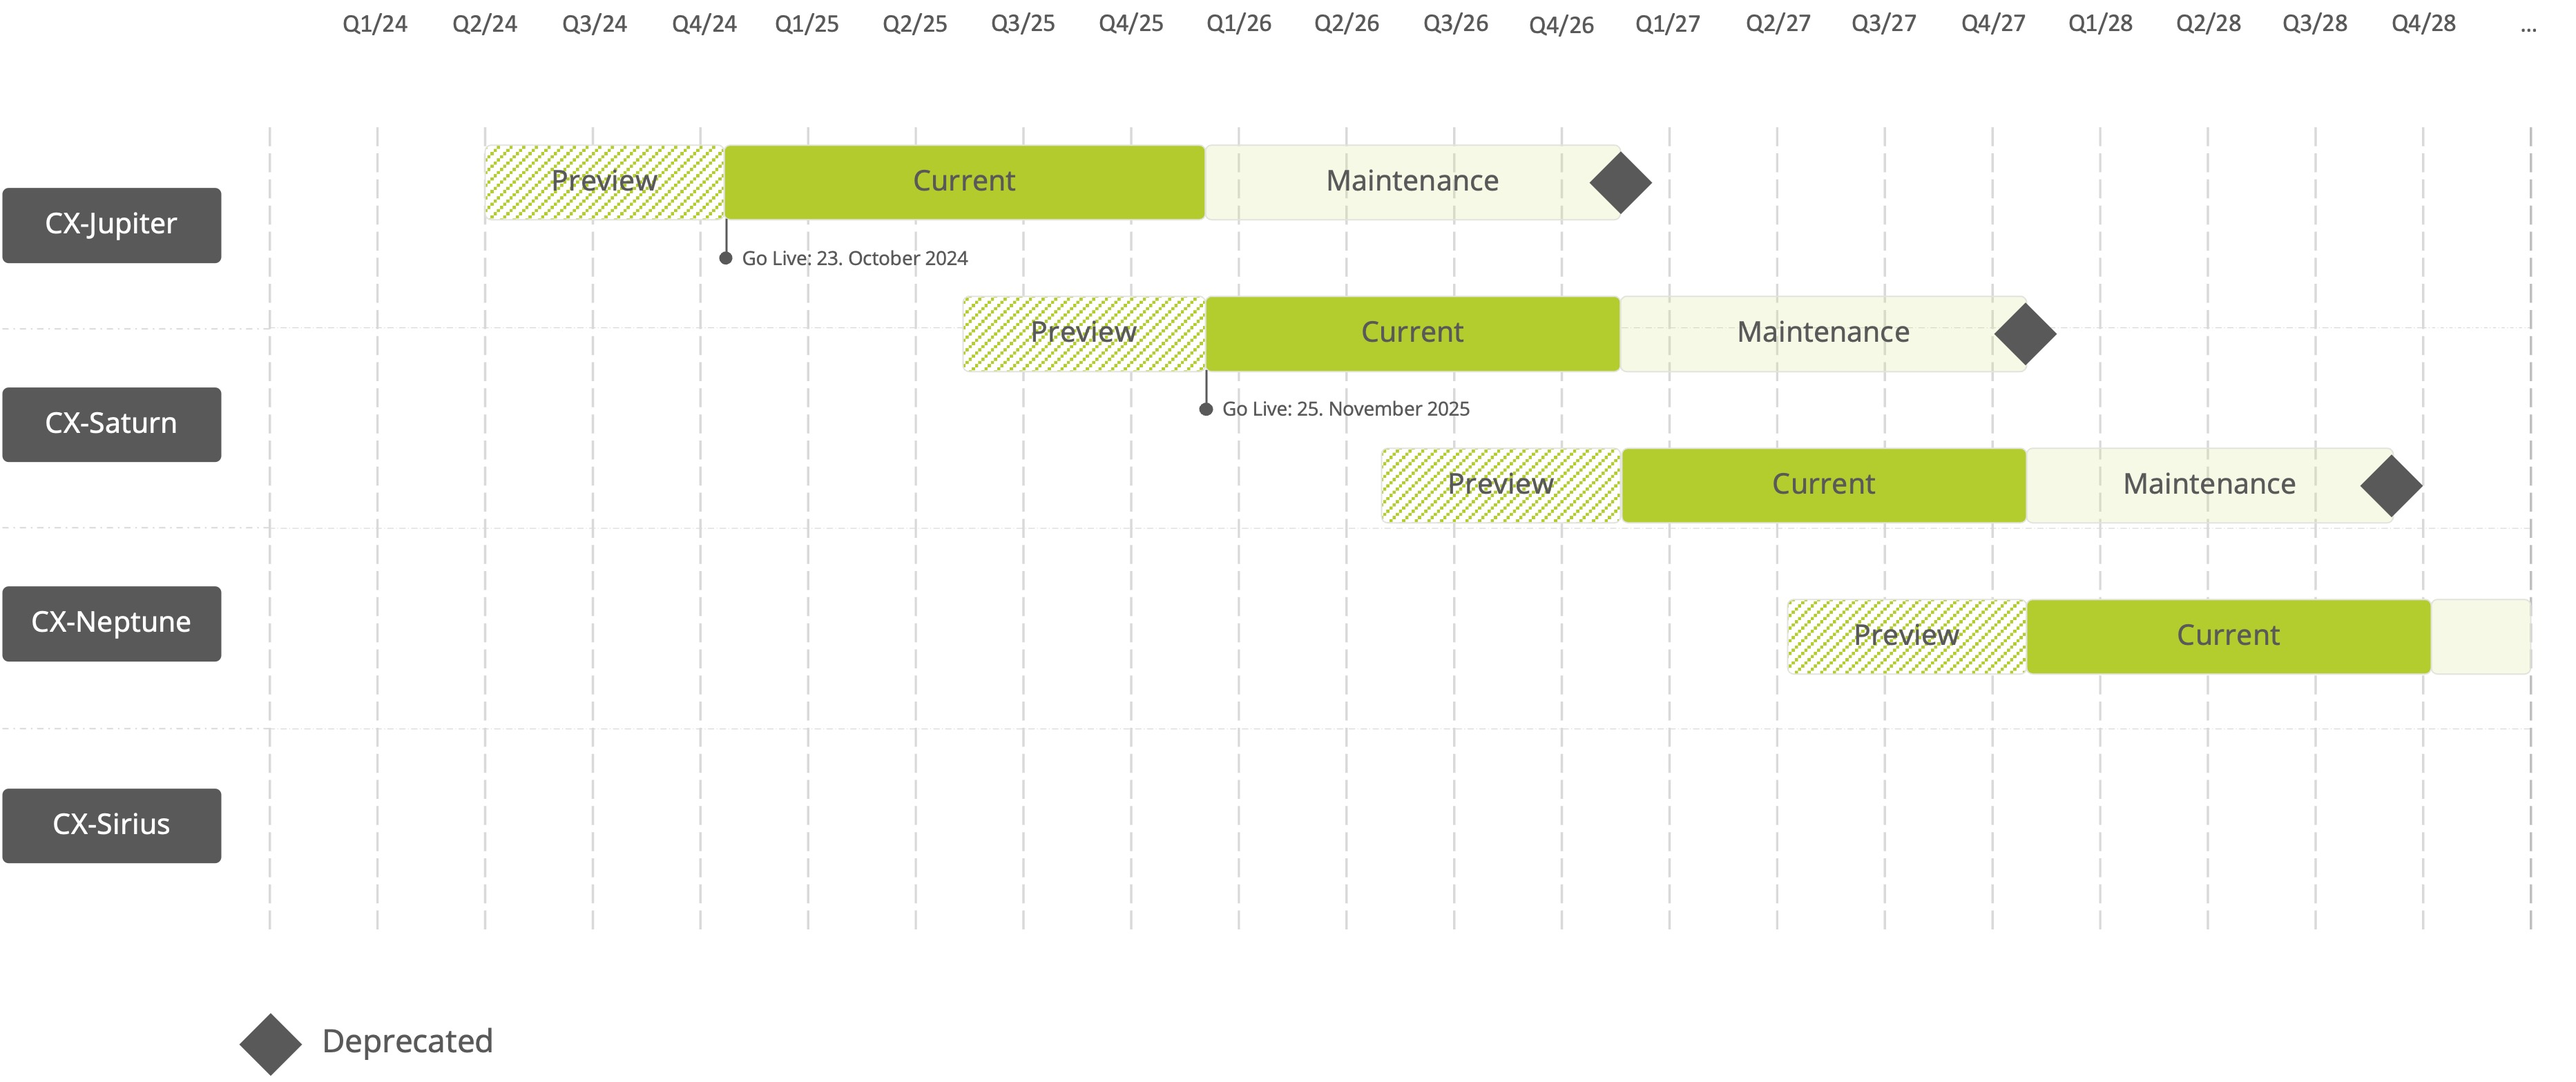
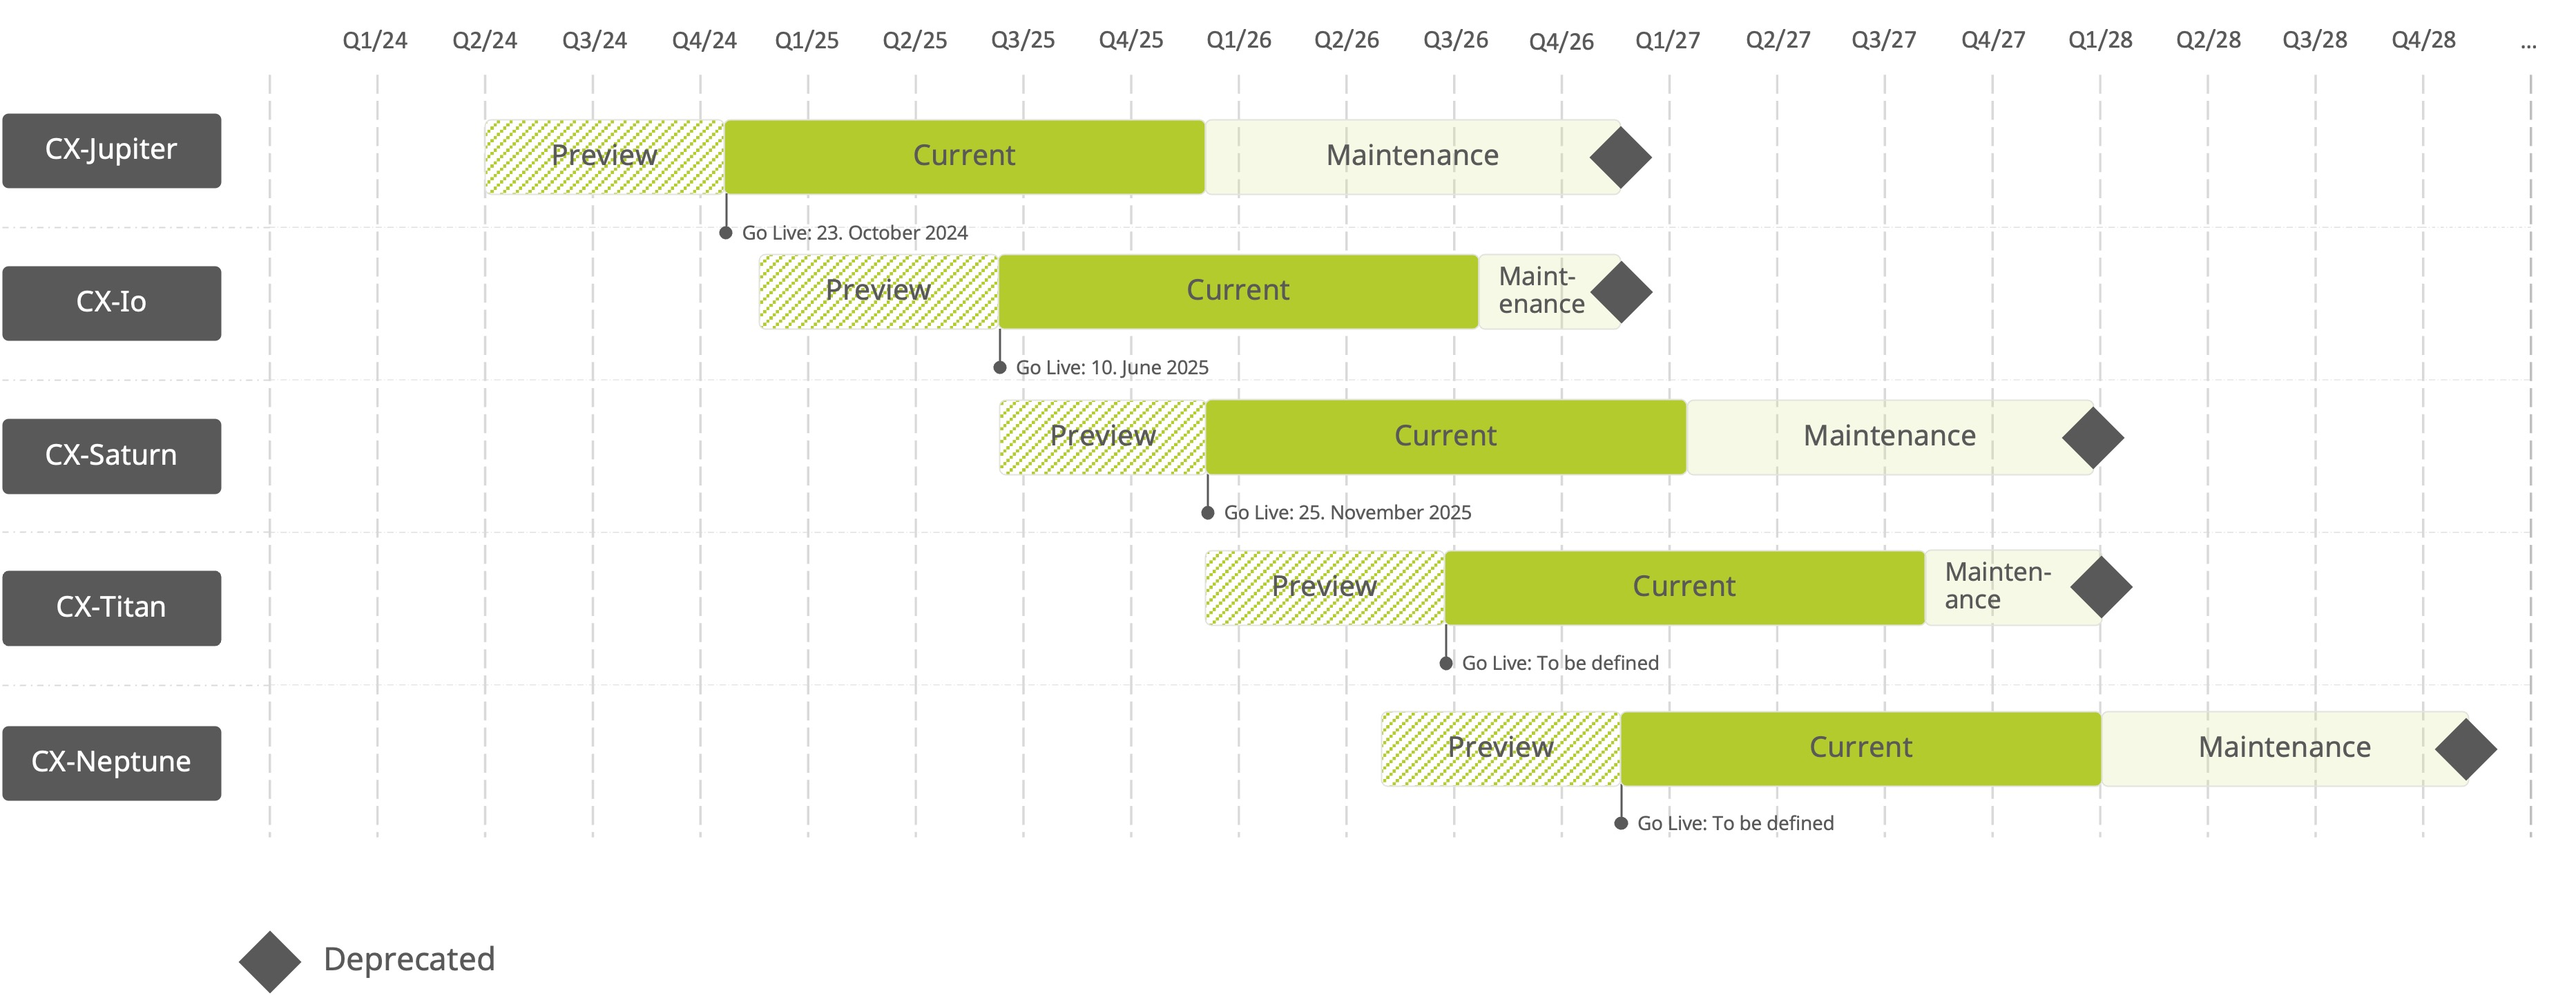
Update certification chapter and release dates

diff --git a/docs/operating-model/how-data-space-governance/how-data-space-governance.md b/docs/operating-model/how-data-space-governance/how-data-space-governance.md
@@ -65,7 +65,9 @@ Certifications and qualifications at Catena-X can be obtained for different type
 
 ### Certification updates
 
-Each certified partner needs to ensure conformity to the standards to be active in the data space. Every certified participant in the data space must remain compatible with at least one of the supported ecosystem releases through certification via a CAB. If there is no valid certificate after the ecosystem release tied to the respective certificate expires, Partners lose the status of certification/ qualification and are no longer listed as such on the Data Space Clearance List after the above-mentioned 120 days grace period expires. Each label is obtained after the successful completion of the Catena-X certification or qualification process.
+Each certified partner must ensure compliance with the standards in order to be active in the data space. Each certified participant in the data space must remain compatible with at least one of the supported ecosystem versions through certification by a CAB. If, after the expiry of the ecosystem version associated with the respective certificate, no valid certificate is available, the partners lose their certification/qualification status and will be removed from the Catena-X data space.
+
+The certification requirements become binding as of the official go-live date of the new release. The time between the publication of the standards and the go-live date serves as a transition phase, allowing partners to prepare and complete the certification process. Each label is issued after successful completion of the Catena-X certification or qualification process.
 
 ### Further clarifications for Ecosystem Releases
 

diff --git a/src/pages/release-management.md b/src/pages/release-management.md
@@ -8,6 +8,14 @@ The upcoming releases are scheduled in the following order:
 
 [![Support Dates](@site/static/img/support-dates.jpg)](@site/static/img/support-dates.jpg)
 
+| Release    | Publication Date (Normative Documentes e.g. Standards and Certification Available) | Go-Live Date (Standards Become Effective) |
+|------------|----------------------------------------------------------|-------------------------------------------|
+| CX-Jupiter | 05.08.2024.                                                | 23.10.2024.                               |
+| CX-Io      | 17.03.2025                                               | 10.06.2025                                |
+| CX-Saturn  | 08.09.2025                                               | 25.11.2025                                |
+| CX-Titan   | 18.03.2026                                               | Mid of July 2026                          |
+| CX-Neptune | 16.09.2026                                               | TBD                                       |
+
 ## Consistency and Compatibility
 
 The release management coordinates the different releases in the Catena-X initiative to ensure a consistent and compatible bundle of:
